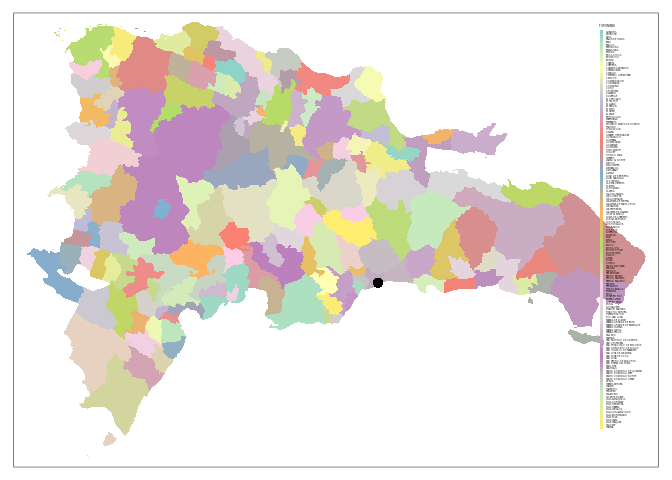
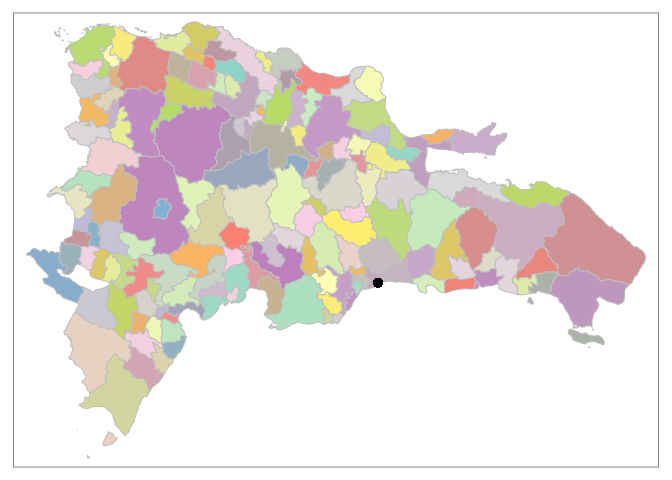
intro-to-r updated

diff --git a/ref/introduccion-a-r.md b/ref/introduccion-a-r.md
@@ -1,7 +1,7 @@
 
 <!-- Este .md fue generado a partir del .Rmd homónimo. Edítese el .Rmd -->
 
-# Introducción a R y análisis exploratorio de datos espaciales (ESDA)
+# Introducción a R, *simple features* y análisis exploratorio de datos espaciales (ESDA)
 
 ## ¿Por qué R?
 
@@ -95,14 +95,15 @@ servicios que manejarás.
     para desarrolladores y desarrolladoras. Luce bien explicado
     [aquí](https://www.deustoformacion.com/blog/programacion-diseno-web/que-es-para-que-sirve-github).
     Recomiendo también el libro web [“*Happy Git and GitHub for the
-    useR*”](https://happygitwithr.com/), de Jenny Bryan (Bryan, the STAT
-    545 TAs, & Hester, 2019).
+    useR*”](https://happygitwithr.com/) (Bryan, the STAT 545 TAs, &
+    Hester, 2019).
   - [GitHub Classroom](https://github.com/education/classroom%5D). En
     [esta
     web](https://www.genbeta.com/desarrollo/classroom-for-github-ayudando-a-los-profesores-a-gestionar-los-ejercicios-de-sus-clases)
     te explican para qué sirve. Con este servicio estoy asignándote
     trabajo. También te recomiendo que leas [ésta
-    afirmación](https://github.com/education/classroom#who-is-classroom-for).
+    afirmación](https://github.com/education/classroom#who-is-github-classroom-for)
+    sobre “Who is GitHub classroom for?”.
   - Foros de ayuda y listas de distribución, entre los que destacan
     [R-help](https://stat.ethz.ch/mailman/listinfo/r-help),
     [R-devel](https://stat.ethz.ch/mailman/listinfo/r-devel),
@@ -169,11 +170,13 @@ help.search("matrix") #Busca la palabra clave en las ayudas de los paquetes
 ??matrix #Ídem
 ```
 
-¡Usa los foros\! Si introduces un mensaje de error de R en el buscador
-de tu preferencia (en inglés obtienes más resultados), encontrarás
-varios punteros a foros con posibles soluciones.
+¡Usa los foros\! Si introduces un mensaje de error (preferiblemente en
+inglés) de R en el buscador de tu preferencia, encontrarás varios
+punteros a foros con posibles soluciones.
 
-## Análisis exploratorio de datos espaciales (ESDA)
+## *Simple features*
+
+### Paquetes
 
 Carguemos los paquetes que necesitaremos en esta introducción.
 
@@ -186,24 +189,22 @@ library(readxl)
 library(tmap)
 ```
 
-Brevemente, con `sf` crearás y manipularás *simple features* (más
-detalles a continuación), `raster` te ayudará a manipular y analizar
-imágenes de dicho modelo, con `rgdal` tendrás varias funciones
-*wrapper* para trabajar con `gdal`desde R, `tidyverse` carga una
-colección de paquetes para manipular, limpiar y organizar datos de
-`data.frame`, `readxl` te permitirá cargar archivos Excel, y con `tmap`
-crearás mapas y los personalizarás. Busca más información sobre estos
-paquetes, y comprobarás las múltiples capacidades de R para manipular
-información espacial.
+Brevemente, con `sf` crearás y manipularás *simple features*, `raster`
+te ayudará a manipular y analizar imágenes de dicho modelo, con `rgdal`
+tendrás varias funciones *wrapper* para trabajar con `gdal`desde R,
+`tidyverse` carga una colección de paquetes para manipular, limpiar y
+organizar datos de `data.frame`, `readxl` te permitirá cargar archivos
+Excel, y con `tmap` crearás mapas y los personalizarás. Busca más
+información sobre estos paquetes, y comprobarás las múltiples
+capacidades de R para manipular información espacial.
 
-El siguiente bloque de código carga las regiones del país según la
-división de 2010, a partir de un archivo GeoPackage, originalmente
-*shapefiles* de la Oficina Nacional de Estadística (ONE) (2015) (de la
-capa municipios, la geometría correspondiente al municipio “Guayubín”
-resultó ser no válida y fue arreglada). Además de las regiones, este
-GPKG contiene dos capas adicionales, provincias y municipios, que
-cargaremos más
-adelante.
+### Mi primer mapa
+
+El siguiente bloque de código carga las regiones de República Dominicana
+según la división de 2010, a partir de un archivo GeoPackage que
+contiene 3 capas (regiones propiamente, provincias y municipios\[1\]),
+originalmente *shapefiles* de la Oficina Nacional de Estadística (ONE)
+(2015).
 
 ``` r
 reg.sf <- st_read(dsn = 'data/divisionRD.gpkg', layer = 'REGCenso2010', quiet = T)
@@ -213,11 +214,18 @@ plot(reg.sf)
 ![](../img/regiones-1.png)<!-- -->
 
 La función `st_read` lee la capa correspondiente del GPKG y la convierte
-a un `simple features` de tipo `MULTIPOLYGON`. Este tipo de objetos los
-analizaremos más adelante; por lo pronto, probemos algunas
-visualizaciones más. Las regiones fueron coloreadas en función de los
-campos `REG` y `TOPONIMIA`, pero se puede crear un campo de área
-(simple, en m<sup>2</sup>) y aplicar estilos al mapa en función de éste.
+a un `simple features` de tipo `MULTIPOLYGON` (este tipo de objetos los
+analizaremos más adelante).
+
+Notar que la capa `REGCenso2010`, cuenta con dos campos, por lo que la
+función `plot` representa a los municipios aplicándoles distintos
+estilos en función del campo representado. Las regiones fueron
+coloreadas en función de los campos `REG` y `TOPONIMIA`. Probemos una
+visualización cuantitativa. Crearemos un campo de área mediante la
+función `st_area` (en m<sup>2</sup>, que son las unidades del CRS, que
+es EPSG:32619), representaremos el objeto `reg.sf` usando sólo dicho
+campo (`reg.sf['area']`) y le aplicaremos estilos al mapa en función de
+éste.
 
 ``` r
 reg.sf$area <- st_area(reg.sf)
@@ -230,7 +238,11 @@ plot(reg.sf['area'])
 > tutorial, probarás formas de diseñar mapas estilizados.
 
 El bloque de código a continuación carga la capa de municipios desde el
-GPKG.
+GPKG y la representa. Al igual que con la capa regional, dado que tiene
+múltiples campos (en este caso, 3 adicionales), la función `plot`
+representa a los municipios aplicándoles distintos estilos en función
+del campo
+representado.
 
 ``` r
 mun.sf <- st_read(dsn = 'data/divisionRD.gpkg', layer = 'MUNCenso2010', quiet = T)
@@ -246,10 +258,7 @@ plot(mun.sf['area'])
 
 ![](../img/municipios-2.png)<!-- -->
 
-``` r
-nrow(mun.sf)
-## [1] 155
-```
+### ¿Qué son *simple features*?
 
 Veamos lo básico sobre el modelo de datos *simple features*. Se trata de
 un estándar abierto y jerárquico del Open Geospatial Consortium
@@ -271,8 +280,8 @@ Lovelace et al. (2019)
 Por ejemplo, exploremos el objeto `mun.sf` en la consola; basta con
 escribir su nombre para obtener un resumen que muestra el tipo de
 geometría y otras características espaciales, como el sistema de
-coordenadas de referencia (CRS). A continuación, mostrará los atributos
-de los primeros 10 objetos (explicados más adelante).
+referencia espacial (CRS). A continuación, mostrará los atributos de los
+primeros 10 objetos (explicados más adelante).
 
 ``` r
 mun.sf
@@ -308,8 +317,8 @@ mun.sf
 ```
 
 Nos informa que se trata de un `Simple feature collection with 155
-features and 6 fields` de tipo `MULTIPOLYGON` con dimensiones `XY y una
-extensión mostrada en la línea`bbox\`. Igualmente, nos indica que el CRS
+features and 6 fields` de tipo `MULTIPOLYGON` con dimensiones `XY` y una
+extensión mostrada en la línea `bbox`. Igualmente, nos indica que el CRS
 es EPSG:32619, o WGS84 UTM zona 19.
 
 El modelo de datos de los *simple features* se basa en estructuras
@@ -343,7 +352,7 @@ denominadas `data.frames` en R, que en el caso concreto serían “tablas
 espaciales” (*spatial data frames*). Exploremos la estructura del objeto
 `mun.sf` mediante la función `str`, la cual lo muestra como `Classes
 'sf' and data.frame: 10 obs. of 4 variables` (155 observaciones o
-geometrías, que en este caso son municipios dominicanas, y 4 variables o
+geometrías, que en este caso son municipios dominicanos, y 4 variables o
 atributos).
 
 ``` r
@@ -414,23 +423,142 @@ summary(mun.sf['area'])
 > siempre acompaña al objeto a menos que le indiquemos lo contrario
 > (*sticky column*).
 
+### *Simple features*, de abajo a arriba
+
 Normalmente, los datos espaciales se crean en aplicaciones con GUI
-(e.g. como QGIS), o los obtienes de terceros. Sin embargo, para fines
-didácticos, crearemos algunos objestos conteniendo los tipos de
-geometrías más básicos. Primero, crearemos un `mun.sf.ll` en EPSG:4326
-a partir de `mun.sf`, luego crearemos un punto en coordenadas
-geográficas sobre la ciudad de Santo Domingo y finalmente los
-representaremos a ambos.
+(e.g. QGIS), o los obtienes de terceros. Sin embargo, para fines
+didácticos, crearemos algunos objetos conteniendo los tipos de
+geometrías básicos en la forma de *simple feature geometries* (`sfg`)
+en el siguiente bloque de código. Las crearemos utilizando **coordenadas
+geográficas**, aunque no podremos definir un CRS, puesto que la clase
+`sfg` no admite dicha funcionalidad. Las funciones que utilizaremos para
+cada geometría serán punto `st_point`, línea `st_linestring` y polígono
+`st_polygon`.
 
 ``` r
-mun.sf.ll <- st_transform(mun.sf, crs = 4326)
-pt1 <- st_sfc(st_point(c(-69.9172, 18.4594)), crs = 4326) #Un punto sobre la ciudad de SD. ¿Dónde?
-tmap_options(max.categories = 155)
-tm_shape(mun.sf.ll) + tm_fill('TOPONIMIA', palette = ) +
-  tm_shape(shp = pt1) + tm_dots('black', size = 0.5)
+pto.sfg <- st_point(c(-70.3, 19))
+pto.sfg
+## POINT (-70.3 19)
+plot(pto.sfg, col = 'red'); box()
+matrizlin <- rbind(c(-71.5, 18), c(-71.2, 18),
+                   c(-71.2, 18.4), c(-71.5, 18.4))
+matrizlin
+##       [,1] [,2]
+## [1,] -71.5 18.0
+## [2,] -71.2 18.0
+## [3,] -71.2 18.4
+## [4,] -71.5 18.4
+lin.sfg <- st_linestring(matrizlin)
+lin.sfg
+## LINESTRING (-71.5 18, -71.2 18, -71.2 18.4, -71.5 18.4)
+plot(lin.sfg, col = 'red'); box()
+matrizpol <- list(
+  rbind(c(-70.7, 18.6), c(-70.4, 18.6),
+        c(-70.4, 18.9), c(-70.7, 18.9),
+        c(-70.7, 18.6)))
+pol.sfg <- st_polygon(matrizpol)
+pol.sfg
+## POLYGON ((-70.7 18.6, -70.4 18.6, -70.4 18.9, -70.7 18.9, -70.7 18.6))
+plot(pol.sfg, col = 'red'); box()
 ```
 
-![](../img/munpt-1.png)<!-- -->
+<img src="../img/geoms-1.png" width="33%" /><img src="../img/geoms-2.png" width="33%" /><img src="../img/geoms-3.png" width="33%" />
+
+Si combinamos varios puntos generamos un elemento multipunto
+(*multipoint*). Lo mismo aplica para las líneas (multilínea,
+*multilinestring*) y los polígonos (multipolígono, *multipolygon*). El
+siguiente bloque de código muestra cómo
+crearlos.
+
+``` r
+mpto.sfg <- st_multipoint(rbind(c(-70.3, 19), c(-70.4, 19), c(-70.4, 19.1), c(-70.3, 19.1)))
+mpto.sfg
+## MULTIPOINT (-70.3 19, -70.4 19, -70.4 19.1, -70.3 19.1)
+plot(mpto.sfg, col = 'red'); box()
+matrizmlin <- list(rbind(c(-71.5, 18), c(-71.2, 18), c(-71.2, 18.4), c(-71.5, 18.4)),
+                  rbind(c(-70.9, 18), c(-70.5, 18), c(-70.7, 18.4)))
+matrizmlin
+## [[1]]
+##       [,1] [,2]
+## [1,] -71.5 18.0
+## [2,] -71.2 18.0
+## [3,] -71.2 18.4
+## [4,] -71.5 18.4
+## 
+## [[2]]
+##       [,1] [,2]
+## [1,] -70.9 18.0
+## [2,] -70.5 18.0
+## [3,] -70.7 18.4
+mlin.sfg <- st_multilinestring(matrizmlin)
+mlin.sfg
+## MULTILINESTRING ((-71.5 18, -71.2 18, -71.2 18.4, -71.5 18.4), (-70.9 18, -70.5 18, -70.7 18.4))
+plot(mlin.sfg, col = 'red'); box()
+matrizmpol <- list(
+  list(rbind(c(-70.7, 18.6), c(-70.4, 18.6), c(-70.4, 18.9), c(-70.7, 18.9), c(-70.7, 18.6))),
+  list(rbind(c(-70, 18.6), c(-70.3, 18.6), c(-70.2, 18.9), c(-70, 18.6)))
+)
+mpol.sfg <- st_multipolygon(matrizmpol)
+mpol.sfg
+## MULTIPOLYGON (((-70.7 18.6, -70.4 18.6, -70.4 18.9, -70.7 18.9, -70.7 18.6)), ((-70 18.6, -70.3 18.6, -70.2 18.9, -70 18.6)))
+plot(mpol.sfg, col = 'red'); box()
+```
+
+<img src="../img/geomsm-1.png" width="33%" /><img src="../img/geomsm-2.png" width="33%" /><img src="../img/geomsm-3.png" width="33%" />
+
+Finalmente, combinaremos varios elementos en una colección, para lo cual
+usaremos los elementos creados anteriormente.
+
+``` r
+# colec <- c(pto, lin, pol)
+colec1.sfg <- st_geometrycollection(list(pto.sfg, lin.sfg, pol.sfg))
+plot(colec1.sfg, col = 'red'); box()
+colec2.sfg <- st_geometrycollection(list(mpto.sfg, mlin.sfg, mpol.sfg))
+plot(colec2.sfg, col = 'red'); box()
+```
+
+<img src="../img/colec-1.png" width="50%" /><img src="../img/colec-2.png" width="50%" />
+
+Recordemos que, hasta este punto, hemos creado elementos basados en
+geometrías simples (*simple feature geometries*, `sfg`). Un objeto `sfg`
+contiene sólo un elemento, que puede ser sencillo, multi\* o una
+colección. Además, aunque las `sfg` se construyen a partir de
+coordenadas, éstas no disponen de sistema de referencia espacial (CRS).
+La *simple feature column* (`sfc`), al ser una lista, permite alojar
+varios elementos, y al mismo tiempo admite la definición de CRS. La
+`sfc` es también importante porque representa la columna geométrica de
+un *simple feature* (`sf`), por lo que debemos reconocerla para
+comprender el modelo de un `sf`. Generaremos un `sfc` a partir de
+algunos de los `sfg` del objeto `pto` anterior (se podrían utilizar los
+otros igualmente, o combinarlos), sin asignar por el momento CRS alguno.
+
+``` r
+pto.sfc <- st_sfc(pto.sfg)
+pto.sfc
+## Geometry set for 1 feature 
+## geometry type:  POINT
+## dimension:      XY
+## bbox:           xmin: -70.3 ymin: 19 xmax: -70.3 ymax: 19
+## epsg (SRID):    NA
+## proj4string:    NA
+## POINT (-70.3 19)
+plot(pto.sfc, col = 'red'); box()
+```
+
+![](../img/sfc-1.png)<!-- -->
+
+Para fines de consistencia, transformaremos a `mun.sf` al CRS EPSG:4326,
+generando el objeto `mun.sf.ll`, el cual será el mapa de
+fondo.
+
+``` r
+mun.sf.ll <- st_transform(mun.sf, crs = 4326) #Transformación a EPSG:4326
+tmap_options(max.categories = 155) #Aumentando el máx. número de categorías para tmap
+tm_shape(mun.sf.ll) + tm_fill('TOPONIMIA', legend.show = F) +
+  tm_borders('grey') +  tm_shape(shp = pt1) + tm_dots('black', size = 0.5)
+```
+
+## Análisis exploratorio de datos espaciales (ESDA)
 
 ``` r
 pop.mun <- read_xls('pop_adm3.xls')
@@ -569,3 +697,6 @@ transform, visualize, and model data* (1st ed.). Retrieved from
 </div>
 
 </div>
+
+1.  De la capa municipios, la geometría correspondiente al municipio
+    “Guayubín” resultó ser no válida y fue arreglada
